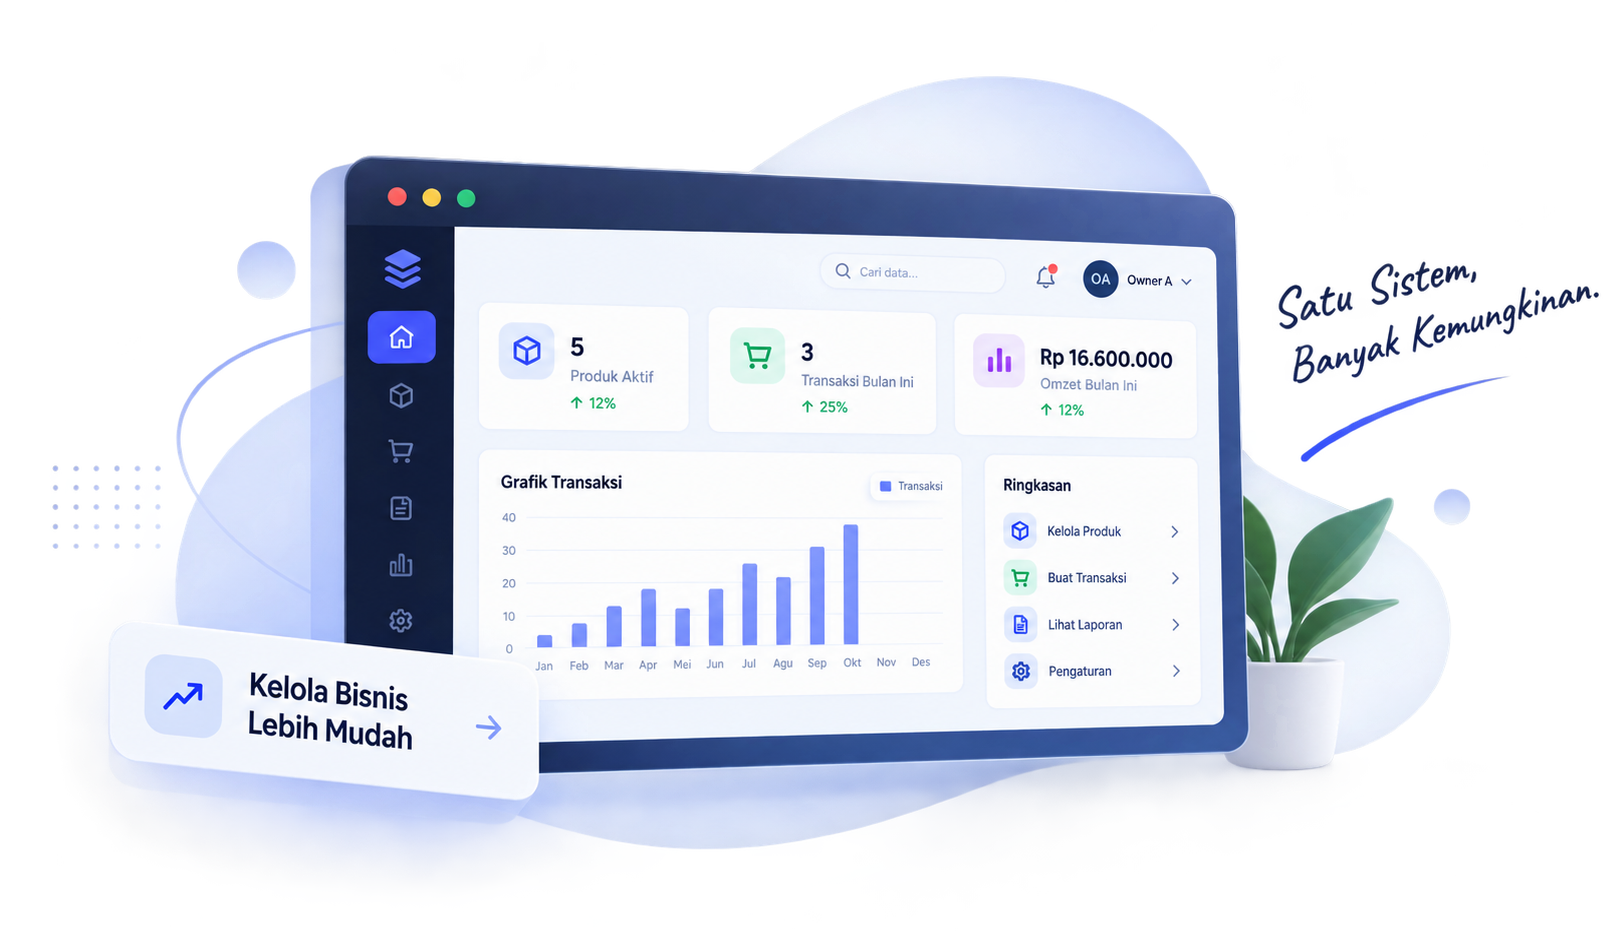
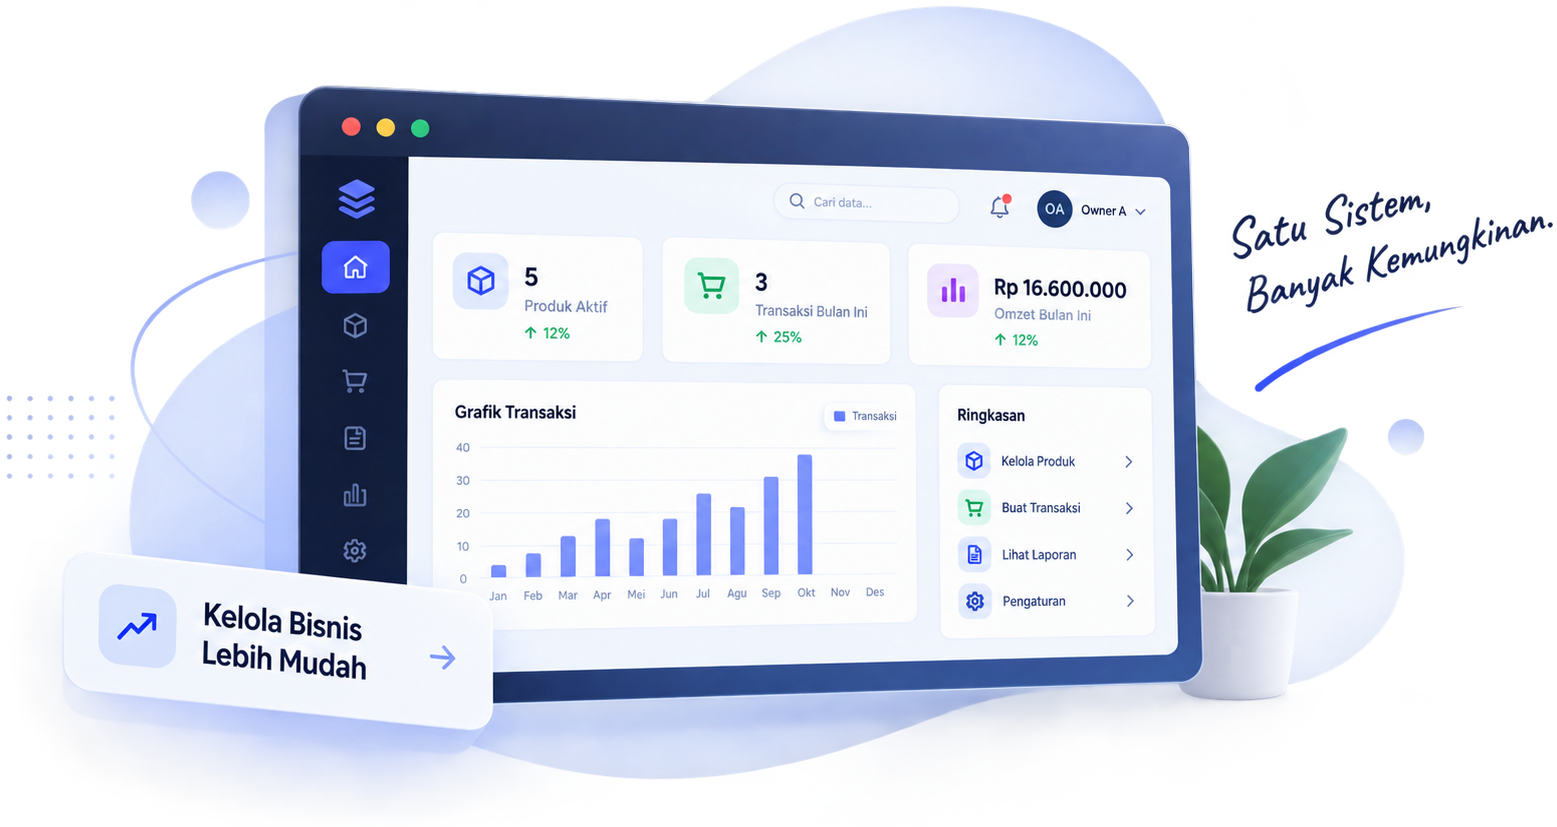
fix(dashboard): compact hero card vertical padding and crop dead margins for balanced spacing

diff --git a/frontend/src/views/DashboardView.vue b/frontend/src/views/DashboardView.vue
@@ -1,62 +1,62 @@
 <template>
-  <div class="space-y-6">
-    <!-- Top Hero Welcome Banner -->
+  <div class="space-y-4 md:space-y-5">
+    <!-- Top Hero Welcome Banner (Snug, Balanced & Compact) -->
     <div
-      class="bg-gradient-to-r from-[#edf2fe] via-[#e6edfd] to-[#dce6fc] rounded-3xl p-6 md:p-8 border border-blue-100/70 shadow-xs relative overflow-hidden flex flex-col lg:flex-row items-center justify-between gap-6"
+      class="bg-gradient-to-r from-[#edf2fe] via-[#e6edfd] to-[#dce6fc] rounded-2xl px-5 sm:px-6 md:px-7 py-3 sm:py-3.5 border border-blue-100/70 shadow-xs relative overflow-hidden flex flex-col lg:flex-row items-center justify-between gap-3 lg:gap-5"
     >
       <!-- Left Content -->
       <div class="relative z-10 flex-1 min-w-0 max-w-2xl xl:max-w-3xl">
         <!-- Tenant Context Pill -->
         <div
-          class="inline-flex items-center space-x-2 bg-white/90 text-indigo-700 text-xs font-medium px-3.5 py-1 rounded-full border border-indigo-200/70 shadow-2xs mb-3"
+          class="inline-flex items-center space-x-1.5 bg-white/90 text-indigo-700 text-[11px] font-medium px-2.5 py-0.5 rounded-full border border-indigo-200/70 shadow-2xs mb-1.5"
         >
-          <Building2 class="w-3.5 h-3.5 text-indigo-600" />
+          <Building2 class="w-3 h-3 text-indigo-600" />
           <span>Multi-Tenant Context: {{ authStore.tenant?.name }}</span>
         </div>
 
         <!-- Heading with User Name: Calm & Elegant -->
-        <h1 class="text-2xl md:text-3xl font-bold text-slate-800 tracking-tight leading-snug">
+        <h1 class="text-xl sm:text-2xl font-bold text-slate-800 tracking-tight leading-snug">
           Selamat Datang, <span class="text-indigo-600">{{ authStore.user?.name }}</span>!
         </h1>
 
         <!-- Subtitle -->
-        <p class="text-slate-500 text-sm mt-2 leading-relaxed font-normal max-w-2xl">
+        <p class="text-slate-500 text-xs sm:text-sm mt-1 leading-relaxed font-normal max-w-2xl">
           Sistem Mini ERP SaaS aktif dengan isolasi data tenant yang terverifikasi. Kelola transaksi, produk, dan laporan dengan lebih mudah dan efisien.
         </p>
 
         <!-- CTA Buttons -->
-        <div class="flex flex-wrap items-center gap-3 mt-5">
+        <div class="flex flex-wrap items-center gap-2.5 mt-3">
           <router-link
             to="/transactions"
-            class="px-5 py-2.5 bg-indigo-600 hover:bg-indigo-700 text-white text-xs md:text-sm font-medium rounded-xl shadow-md shadow-indigo-600/20 hover:shadow-indigo-600/30 transition-all flex items-center space-x-2 shrink-0"
+            class="px-4 py-2 bg-indigo-600 hover:bg-indigo-700 text-white text-xs font-medium rounded-xl shadow-md shadow-indigo-600/20 hover:shadow-indigo-600/30 transition-all flex items-center space-x-1.5 shrink-0"
           >
-            <Plus class="w-4 h-4" />
+            <Plus class="w-3.5 h-3.5" />
             <span>Buat Transaksi</span>
           </router-link>
 
           <router-link
             v-if="authStore.isOwner"
             to="/reports"
-            class="px-5 py-2.5 bg-white/90 hover:bg-white text-indigo-600 text-xs md:text-sm font-medium rounded-xl border border-indigo-200/80 shadow-sm hover:border-indigo-300 transition-all flex items-center space-x-2 shrink-0"
+            class="px-4 py-2 bg-white/90 hover:bg-white text-indigo-600 text-xs font-medium rounded-xl border border-indigo-200/80 shadow-sm hover:border-indigo-300 transition-all flex items-center space-x-1.5 shrink-0"
           >
-            <BarChart3 class="w-4 h-4" />
+            <BarChart3 class="w-3.5 h-3.5" />
             <span>Lihat Laporan</span>
           </router-link>
         </div>
       </div>
 
-      <!-- Right 3D Illustration matching latest graphic -->
+      <!-- Right 3D Illustration matching latest graphic (Snug & Proportional) -->
       <div class="relative shrink-0 flex items-center justify-center lg:justify-end w-full lg:w-auto">
         <img
           :src="dashboardHeroImg"
           alt="Kelola Bisnis Lebih Mudah"
-          class="h-44 sm:h-52 md:h-60 lg:h-64 xl:h-72 w-auto object-contain select-none pointer-events-none drop-shadow-sm"
+          class="h-28 sm:h-32 md:h-36 lg:h-38 w-auto object-contain select-none pointer-events-none drop-shadow-sm"
         />
       </div>
     </div>
 
     <!-- 4 Metric Stat Cards Grid -->
-    <div class="grid grid-cols-1 sm:grid-cols-2 lg:grid-cols-4 gap-4 lg:gap-5">
+    <div class="grid grid-cols-1 sm:grid-cols-2 lg:grid-cols-4 gap-3.5 md:gap-4">
       <!-- Card 1: Katalog Produk -->
       <router-link
         to="/products"
